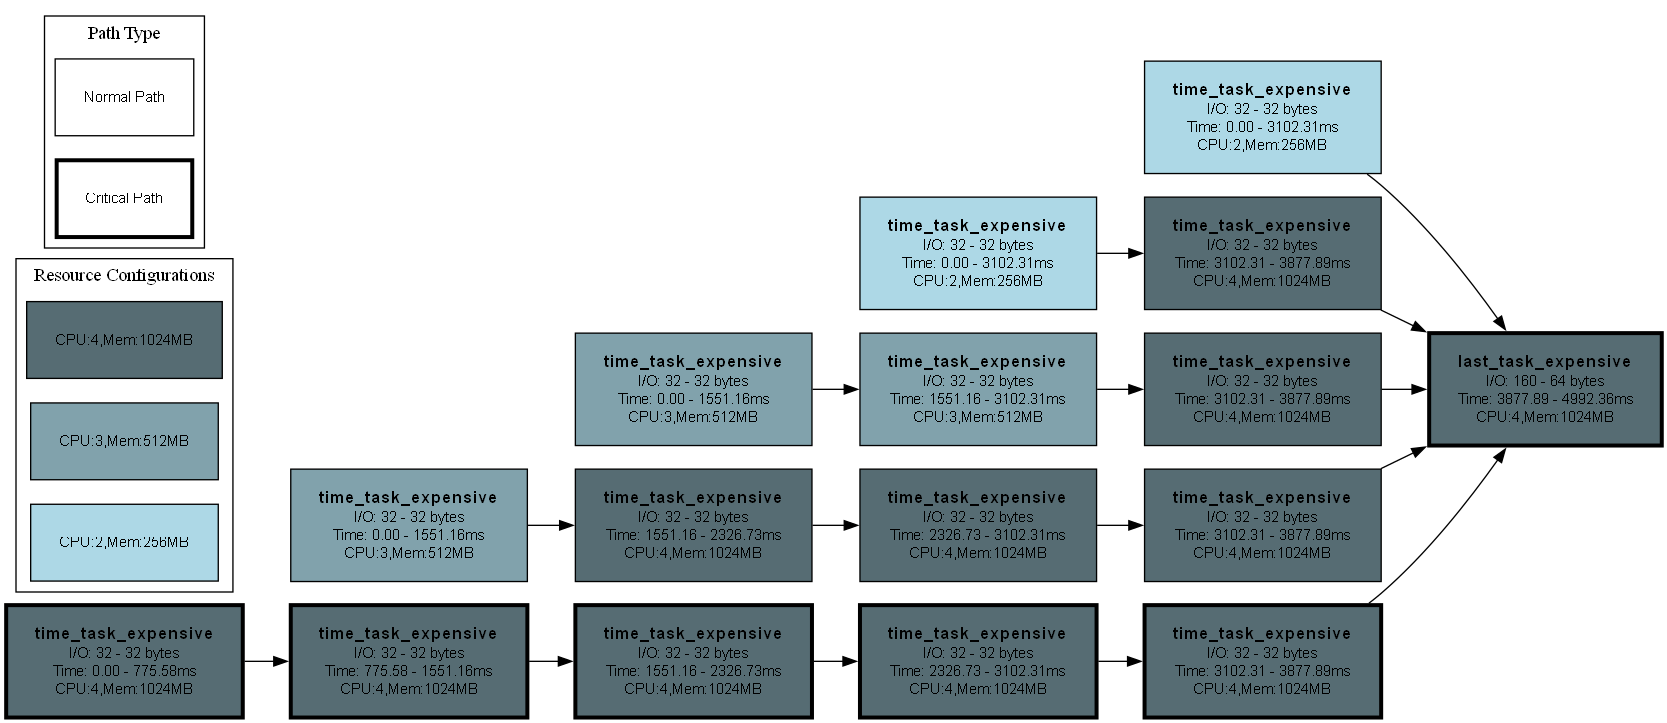
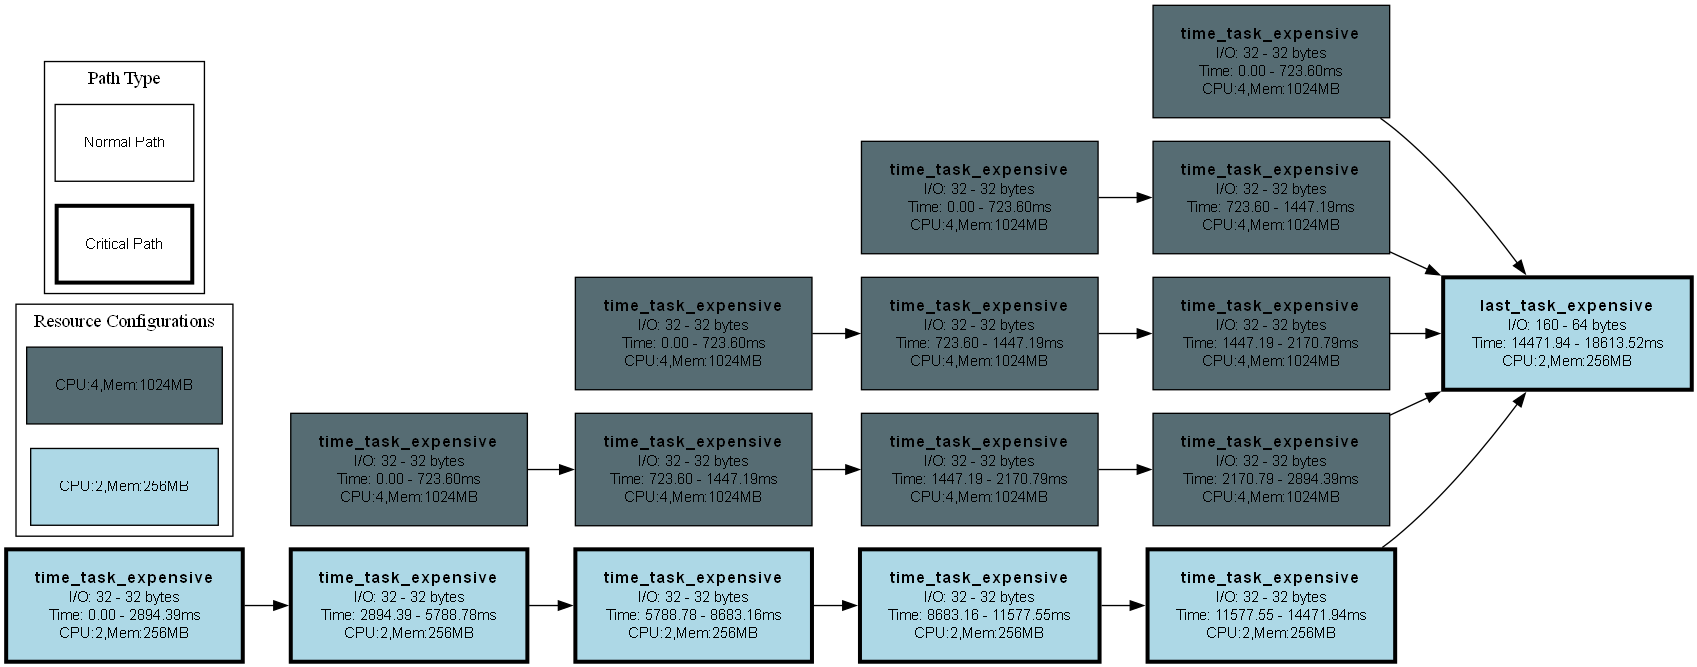
moved worker logic to worker execution logic class

diff --git a/src/worker.py b/src/worker.py
@@ -4,19 +4,19 @@ import base64
 from dataclasses import dataclass
 import json
 import time
-from typing import Any, Callable, Optional
+from typing import Callable, Optional
 import uuid
 import cloudpickle
 import aiohttp
 from abc import ABC, abstractmethod
 
-from src.planning.dag_planner import DAGPlanner, SimpleDAGPlanner
+from src.planning.dag_planner import DAGPlanner
 from src.utils.timer import Timer
 from src.utils.utils import calculate_data_structure_size
 from src.worker_execution_logic import WorkerExecutionLogic
 from src.worker_resource_configuration import TaskWorkerResourceConfiguration
 from src.storage.metrics import metrics_storage
-from src.storage.metrics.metrics_storage import BASELINE_MEMORY_MB, TaskHardcodedInputMetrics, TaskMetrics, TaskInputMetrics, TaskOutputMetrics, TaskInvocationMetrics
+from src.storage.metrics.metrics_storage import BASELINE_MEMORY_MB, TaskHardcodedInputMetrics, TaskMetrics, TaskOutputMetrics
 from src.utils.logger import create_logger
 import src.dag.dag as dag
 import src.dag_task_node as dag_task_node
@@ -45,25 +45,6 @@ class Worker(ABC, WorkerExecutionLogic):
         self.metrics_storage = config.metrics_storage_config.create_instance() if config.metrics_storage_config else None
         self.planner = config.planner_config.create_instance() if config.planner_config else None
 
-    @staticmethod
-    def get_method_overridden(
-        planner_class: type, 
-        base_method: Callable,
-    ) -> Optional[Callable]:
-        # Get the planner's method (without invoking descriptors)
-        planner_method = inspect.getattr_static(planner_class, base_method.__name__, None)
-        if planner_method is None:
-            return None
-        
-        # Unwrap staticmethod if needed
-        base_func = base_method.__func__ if isinstance(base_method, staticmethod) else base_method
-        planner_func = planner_method.__func__ if isinstance(planner_method, staticmethod) else planner_method
-        
-        # Return the callable method if it's actually overridden
-        if planner_func.__code__ != base_func.__code__:
-            return planner_method  # Returns the staticmethod wrapper if applicable
-        return None
-
     async def start_executing(self, subdag: dag.SubDAG):
         if not subdag.root_node: raise Exception(f"AbstractWorker expected a subdag with only 1 root node. Got {len(subdag.root_node)}")
         task = subdag.root_node
@@ -85,15 +66,15 @@ class Worker(ABC, WorkerExecutionLogic):
                     downstream_invocation_times = None,
                     total_invocation_time_ms=0
                 )
-                # 1) DOWNLOAD TASK DEPENDENCIES
+                #* 1) DOWNLOAD TASK DEPENDENCIES
                 self.log(task.id.get_full_id_in_dag(subdag), f"1) Grabbing {len(task.upstream_nodes)} upstream tasks: {[tt.id for tt in task.upstream_nodes]}")
                 planner_override_handle_inputs = self.get_method_overridden(self.planner.__class__, WorkerExecutionLogic.override_handle_inputs) if self.planner else None
                 if planner_override_handle_inputs:
                     logger.info("SIMPLEDAGPLANNER.HANDLE_INPUTS()")
-                    task_dependencies, task_metrics.input_metrics, task_metrics.total_input_download_time_ms = planner_override_handle_inputs(self.intermediate_storage, task, subdag, workerResourceConfig) # type: ignore
+                    task_dependencies, task_metrics.input_metrics, task_metrics.total_input_download_time_ms = await planner_override_handle_inputs(self.intermediate_storage, task, subdag, workerResourceConfig) # type: ignore
                 else:
                     logger.info("DEFAULTEXECLOGIC.HANDLE_INPUTS()")
-                    task_dependencies, task_metrics.input_metrics, task_metrics.total_input_download_time_ms = self.override_handle_inputs(self.intermediate_storage, task, subdag, workerResourceConfig)
+                    task_dependencies, task_metrics.input_metrics, task_metrics.total_input_download_time_ms = await self.override_handle_inputs(self.intermediate_storage, task, subdag, workerResourceConfig)
 
                 # Register the size of hardcoded arguments as well
                 for func_arg in task.func_args:
@@ -103,77 +84,76 @@ class Worker(ABC, WorkerExecutionLogic):
                 for func_kwarg in task.func_kwargs.values():
                     if isinstance(func_kwarg, dag_task_node.DAGTaskNodeId): continue
                     task_metrics.hardcoded_input_metrics.append(TaskHardcodedInputMetrics(size_bytes=calculate_data_structure_size(func_kwarg)))
+                
+                #* 2) EXECUTE TASK
+                self.log(task.id.get_full_id_in_dag(subdag), f"2) Executing Task...")
+                planner_override_handle_execution = self.get_method_overridden(self.planner.__class__, WorkerExecutionLogic.override_handle_execution) if self.planner else None
+                if planner_override_handle_execution:
+                    logger.info("SIMPLEDAGPLANNER.HANDLE_EXECUTION()")
+                    task_result, task_execution_time_ms = await planner_override_handle_execution(task, task_dependencies) # type: ignore
+                else:
+                    logger.info("DEFAULTEXECLOGIC.HANDLE_EXECUTION()")
+                    task_result, task_execution_time_ms = await self.override_handle_execution(task, task_dependencies)
 
-                # 2) EXECUTE TASK
-                exec_timer = Timer()
-                self.log(task.id.get_full_id_in_dag(subdag), f"2) Executing...")
-                task_result = task.invoke(dependencies=task_dependencies)
-                task_metrics.execution_time_ms = exec_timer.stop()
-                total_input_size = sum(m.size_bytes for m in task_metrics.input_metrics) + sum(m.size_bytes for m in task_metrics.hardcoded_input_metrics)
+                task_metrics.execution_time_ms = task_execution_time_ms
                 # normalize based on the memory used. Calculate "per input size byte"
+                total_input_size = sum(m.size_bytes for m in task_metrics.input_metrics) + sum(m.size_bytes for m in task_metrics.hardcoded_input_metrics)
                 task_metrics.normalized_execution_time_per_input_byte_ms = task_metrics.execution_time_ms \
                     * (task_metrics.worker_resource_configuration.memory_mb / BASELINE_MEMORY_MB)  \
                     / total_input_size if task_metrics.worker_resource_configuration else 0 # 0, not to influence predictions, using task_metrics.execution_time_ms would be incorrect
-                self.log(task.id.get_full_id_in_dag(subdag), f"3) Done! Writing output to storage...")
-                output_upload_timer = Timer()
-                task_result_serialized = cloudpickle.dumps(task_result)
-                self.intermediate_storage.set(task.id.get_full_id_in_dag(subdag), task_result_serialized)
+                
+                #* 3) HANDLE TASK OUTPUT
+                self.log(task.id.get_full_id_in_dag(subdag), f"3) Handling Task Output...")
+                planner_override_handle_output = self.get_method_overridden(self.planner.__class__, WorkerExecutionLogic.override_handle_output) if self.planner else None
+                if planner_override_handle_output:
+                    logger.info("SIMPLEDAGPLANNER.HANDLE_OUTPUT()")
+                    output_upload_time_ms = await planner_override_handle_output(task_result, task, subdag, self.intermediate_storage) # type: ignore
+                else:
+                    logger.info("DEFAULTEXECLOGIC.HANDLE_OUTPUT()")
+                    output_upload_time_ms = await self.override_handle_output(task_result, task, subdag, self.intermediate_storage)
+
                 task_metrics.output_metrics = TaskOutputMetrics(
                     size_bytes=calculate_data_structure_size(task_result),
-                    time_ms=output_upload_timer.stop(),
-                    normalized_time_ms=output_upload_timer.stop() * (task_metrics.worker_resource_configuration.memory_mb / BASELINE_MEMORY_MB) if task_metrics.worker_resource_configuration else 0
+                    time_ms=output_upload_time_ms,
+                    normalized_time_ms=output_upload_time_ms * (task_metrics.worker_resource_configuration.memory_mb / BASELINE_MEMORY_MB) if task_metrics.worker_resource_configuration else 0
                 )
 
-                if len(task.downstream_nodes) == 0: 
-                    self.log(task.id.get_full_id_in_dag(subdag), f"Last Task finished. Shutting down worker...")
+                if task.id.get_full_id() == subdag.sink_node.id.get_full_id():
+                    self.log(task.id.get_full_id_in_dag(subdag), f"Sink task finished. Shutting down worker...")
                     if self.metrics_storage: self.metrics_storage.store_task_metrics(task.id.get_full_id_in_dag(subdag), task_metrics)
                     break
 
-                # 3. HANDLE FAN-OUT (1-1 or 1-N)
-                self.log(task.id.get_full_id_in_dag(subdag), f"4) Handle Fan-Out {task.id.get_full_id_in_dag(subdag)} => {[t.id.get_full_id_in_dag(subdag) for t in task.downstream_nodes]}")
-                ready_downstream: list[dag_task_node.DAGTaskNode] = []
-                
+                # Update Dependency Counters of Downstream Tasks
                 updating_dependency_counters_timer = Timer()
-
+                downstream_tasks_ready: list[dag_task_node.DAGTaskNode] = []
                 for downstream_task in task.downstream_nodes:
                     dc_key = f"dependency-counter-{downstream_task.id.get_full_id_in_dag(subdag)}"
                     dependencies_met = self.metadata_storage.atomic_increment_and_get(dc_key)
                     downstream_task_total_dependencies = len(subdag.get_node_by_id(downstream_task.id).upstream_nodes)
                     self.log(task.id.get_full_id_in_dag(subdag), f"Incremented DC of {dc_key} ({dependencies_met}/{downstream_task_total_dependencies})")
-                    if dependencies_met == downstream_task_total_dependencies: ready_downstream.append(downstream_task)
-
+                    if dependencies_met == downstream_task_total_dependencies: downstream_tasks_ready.append(downstream_task)
                 task_metrics.update_dependency_counters_time_ms = updating_dependency_counters_timer.stop()
 
-                # Delegate Downstream Tasks Execution
-                if len(ready_downstream) == 0:
+                self.log(task.id.get_full_id_in_dag(subdag), f"4) Handle Fan-Out {task.id.get_full_id_in_dag(subdag)} => {[t.id.get_full_id_in_dag(subdag) for t in task.downstream_nodes]}")
+
+                if len(downstream_tasks_ready) == 0:
                     self.log(task.id.get_full_id_in_dag(subdag), f"No ready downstream tasks found. Shutting down worker...")
                     if self.metrics_storage: self.metrics_storage.store_task_metrics(task.id.get_full_id_in_dag(subdag), task_metrics)
-                    break  # Give up
+                    break # Give up
 
                 ## > 1 Task ?: Continue with 1 and spawn N-1 Workers for remaining tasks
-                continuation_task = ready_downstream[0] # choose the first task
-                tasks_to_delegate = ready_downstream[1:]
-                coroutines = []
-                total_invocation_time_timer = Timer()
-
-                task_metrics.downstream_invocation_times = []
-                for t in tasks_to_delegate:
-                    workerResourcesConfig = t.get_annotation(TaskWorkerResourceConfiguration)
-                    casted_planner: SimpleDAGPlanner = self.planner # type: ignore
-                    if workerResourcesConfig is None and len(casted_planner.config.available_worker_resource_configurations) > 0:
-                        workerResourcesConfig = casted_planner.config.available_worker_resource_configurations[0]
-                        
-                    self.log(task.id.get_full_id_in_dag(subdag), f"Delegating downstream task: {t} with resources: {workerResourcesConfig}")
-                    delegate_invoke_timer = Timer()
-                    coroutines.append(self.delegate(
-                        subdag.create_subdag(t),
-                        resource_configuration=workerResourcesConfig,
-                        called_by_worker=True
-                    ))
-                    task_metrics.downstream_invocation_times.append(TaskInvocationMetrics(task_id=t.id.get_full_id_in_dag(subdag), time_ms=delegate_invoke_timer.stop()))
+                #* 4) HANDLE DOWNSTREAM TASKS
+                self.log(task.id.get_full_id_in_dag(subdag), f"3) Handling Task Output...")
+                planner_override_handle_downstream = self.get_method_overridden(self.planner.__class__, WorkerExecutionLogic.override_handle_downstream) if self.planner else None
+                if planner_override_handle_downstream:
+                    logger.info("SIMPLEDAGPLANNER.HANDLE_DOWNSTREAM()")
+                    continuation_task, downstream_invocation_times, total_invocation_time_ms = await planner_override_handle_downstream(self, downstream_tasks_ready, task, subdag) # type: ignore
+                else:
+                    logger.info("DEFAULTEXECLOGIC.HANDLE_DOWNSTREAM()")
+                    continuation_task, downstream_invocation_times, total_invocation_time_ms = await self.override_handle_downstream(self, downstream_tasks_ready, task, subdag)
                 
-                await asyncio.gather(*coroutines) # wait for the delegations to be accepted
-                task_metrics.total_invocation_time_ms = total_invocation_time_timer.stop()
+                task_metrics.downstream_invocation_times = downstream_invocation_times
+                task_metrics.total_invocation_time_ms = total_invocation_time_ms
 
                 if self.metrics_storage: self.metrics_storage.store_task_metrics(task.id.get_full_id_in_dag(subdag), task_metrics)
 
@@ -223,24 +203,21 @@ class Worker(ABC, WorkerExecutionLogic):
                 return final_result
 
     @staticmethod
-    def override_handle_inputs(intermediate_storage: storage_module.Storage, task: dag_task_node.DAGTaskNode, subdag: dag.SubDAG, worker_resource_config: TaskWorkerResourceConfiguration | None):
-        task_dependencies: dict[str, Any] = {}
-        _input_metrics: list[TaskInputMetrics] = []
-        dependency_download_timer = Timer()
-        for dependency_task in task.upstream_nodes:
-            fotimer = Timer()
-            task_output = intermediate_storage.get(dependency_task.id.get_full_id_in_dag(subdag))
-            if task_output is None: raise Exception(f"[BUG] Task {dependency_task.id.get_full_id_in_dag(subdag)}'s data is not available")
-            task_dependencies[dependency_task.id.get_full_id()] = cloudpickle.loads(task_output)
-            _input_metrics.append(TaskInputMetrics(
-                task_id=dependency_task.id.get_full_id_in_dag(subdag),
-                size_bytes=calculate_data_structure_size(task_dependencies[dependency_task.id.get_full_id()]),
-                time_ms=fotimer.stop(),
-                normalized_time_ms=fotimer.stop() * (worker_resource_config.memory_mb / BASELINE_MEMORY_MB) if worker_resource_config else 0
-            ))
+    def get_method_overridden(
+        planner_class: type, 
+        base_method: Callable,
+    ) -> Optional[Callable]:
+        # Get the planner's method (without invoking descriptors)
+        planner_method = inspect.getattr_static(planner_class, base_method.__name__, None)
+        if planner_method is None: return None
+
+        # Unwrap staticmethod if needed
+        base_func = base_method.__func__ if isinstance(base_method, staticmethod) else base_method
+        planner_func = planner_method.__func__ if isinstance(planner_method, staticmethod) else planner_method
         
-        _total_input_download_time_ms = dependency_download_timer.stop()
-        return (task_dependencies, _input_metrics, _total_input_download_time_ms)
+        # Return the callable method if it's actually overridden
+        if planner_func.__code__ != base_func.__code__: return planner_method
+        return None
 
     def log(self, task_id: str, message: str):
         """Log a message with worker ID prefix."""

diff --git a/src/worker_execution_logic.py b/src/worker_execution_logic.py
@@ -1,25 +1,74 @@
-from abc import ABC, abstractmethod
+import asyncio
 from typing import Any
+
+import cloudpickle
 
 from src.dag import dag
 from src.dag_task_node import DAGTaskNode
-from src.storage.metrics.metrics_storage import TaskInputMetrics
+from src.storage.metrics.metrics_storage import BASELINE_MEMORY_MB, TaskInputMetrics, TaskInvocationMetrics
 from src.storage.storage import Storage
+from src.utils.timer import Timer
+from src.utils.utils import calculate_data_structure_size
+from src.worker import Worker
 from src.worker_resource_configuration import TaskWorkerResourceConfiguration
 
 class WorkerExecutionLogic():
     @staticmethod
-    def override_handle_inputs(intermediate_storage: Storage, task: DAGTaskNode, subdag: dag.SubDAG, worker_resource_config: TaskWorkerResourceConfiguration | None) -> tuple[dict[str, Any], list[TaskInputMetrics], float]:
-        raise NotImplementedError
+    async def override_handle_inputs(intermediate_storage: Storage, task: DAGTaskNode, subdag: dag.SubDAG, worker_resource_config: TaskWorkerResourceConfiguration | None) -> tuple[dict[str, Any], list[TaskInputMetrics], float]:
+        task_dependencies: dict[str, Any] = {}
+        _input_metrics: list[TaskInputMetrics] = []
+        dependency_download_timer = Timer()
+        for dependency_task in task.upstream_nodes:
+            fotimer = Timer()
+            task_output = intermediate_storage.get(dependency_task.id.get_full_id_in_dag(subdag))
+            if task_output is None: raise Exception(f"[BUG] Task {dependency_task.id.get_full_id_in_dag(subdag)}'s data is not available")
+            task_dependencies[dependency_task.id.get_full_id()] = cloudpickle.loads(task_output)
+            _input_metrics.append(TaskInputMetrics(
+                task_id=dependency_task.id.get_full_id_in_dag(subdag),
+                size_bytes=calculate_data_structure_size(task_dependencies[dependency_task.id.get_full_id()]),
+                time_ms=fotimer.stop(),
+                normalized_time_ms=fotimer.stop() * (worker_resource_config.memory_mb / BASELINE_MEMORY_MB) if worker_resource_config else 0
+            ))
+        
+        _total_input_download_time_ms = dependency_download_timer.stop()
+        return (task_dependencies, _input_metrics, _total_input_download_time_ms)
     
     @staticmethod
-    def override_handle_execution(): 
-        raise NotImplementedError
+    async def override_handle_execution(task: DAGTaskNode, task_dependencies: dict[str, Any]) -> tuple[Any, float]:
+        exec_timer = Timer()
+        task_result = task.invoke(dependencies=task_dependencies)
+        return (task_result, exec_timer.stop())
 
     @staticmethod
-    def override_handle_output(): 
-        raise NotImplementedError
+    async def override_handle_output(task_result: Any, task: DAGTaskNode, subdag: dag.SubDAG, intermediate_storage: Storage) -> float: 
+        output_upload_timer = Timer()
+        task_result_serialized = cloudpickle.dumps(task_result)
+        intermediate_storage.set(task.id.get_full_id_in_dag(subdag), task_result_serialized)
+        return output_upload_timer.stop()
 
     @staticmethod
-    def override_handle_downstream(): 
-        raise NotImplementedError
+    async def override_handle_downstream(worker: Worker, downstream_tasks_ready: list[DAGTaskNode], task: DAGTaskNode, subdag: dag.SubDAG) -> tuple[DAGTaskNode, list[TaskInvocationMetrics], float]:
+        continuation_task = downstream_tasks_ready[0] # choose the first task
+        tasks_to_delegate = downstream_tasks_ready[1:]
+        coroutines = []
+        total_invocation_time_timer = Timer()
+        downstream_invocation_times = []
+        for t in tasks_to_delegate:
+            workerResourcesConfig = t.get_annotation(TaskWorkerResourceConfiguration)
+            casted_planner: SimpleDAGPlanner = self.planner # type: ignore
+            if workerResourcesConfig is None and len(casted_planner.config.available_worker_resource_configurations) > 0:
+                workerResourcesConfig = casted_planner.config.available_worker_resource_configurations[0]
+                
+            worker.log(task.id.get_full_id_in_dag(subdag), f"Delegating downstream task: {t} with resources: {workerResourcesConfig}")
+            delegate_invoke_timer = Timer()
+            coroutines.append(worker.delegate(
+                subdag.create_subdag(t),
+                resource_configuration=workerResourcesConfig,
+                called_by_worker=True
+            ))
+            downstream_invocation_times.append(TaskInvocationMetrics(task_id=t.id.get_full_id_in_dag(subdag), time_ms=delegate_invoke_timer.stop()))
+        
+        await asyncio.gather(*coroutines) # wait for the delegations to be accepted
+
+        total_invocation_time_ms = total_invocation_time_timer.stop()
+        return (continuation_task, downstream_invocation_times, total_invocation_time_ms)

diff --git a/_examples/original/dagforpredictions_expensive_computations.py b/_examples/original/dagforpredictions_expensive_computations.py
@@ -28,14 +28,14 @@ localWorkerConfig = LocalWorker.Config(
     intermediate_storage_config=redis_intermediate_storage_config,
     metadata_storage_config=redis_intermediate_storage_config,  # will use the same as intermediate_storage_config
     metrics_storage_config=MetricsStorage.Config(storage_config=redis_metrics_storage_config),
-    # planner_config=SimpleDAGPlanner.Config(
-    #     sla="avg",
-    #     available_worker_resource_configurations=[
-    #         TaskWorkerResourceConfiguration(cpus=2, memory_mb=256),
-    #         TaskWorkerResourceConfiguration(cpus=3, memory_mb=512),
-    #         TaskWorkerResourceConfiguration(cpus=4, memory_mb=1024)
-    #     ],
-    # )
+    planner_config=SimpleDAGPlanner.Config(
+        sla="avg",
+        available_worker_resource_configurations=[
+            TaskWorkerResourceConfiguration(cpus=2, memory_mb=256),
+            TaskWorkerResourceConfiguration(cpus=3, memory_mb=512),
+            TaskWorkerResourceConfiguration(cpus=4, memory_mb=1024)
+        ],
+    )
 )
 
 dockerWorkerConfig = DockerWorker.Config(

diff --git a/TODO.md b/TODO.md
@@ -1,8 +1,8 @@
-
-
 # WORKER
-- Add support for Planners in LocalWorker as well (all workers should be supported)
-- Implement remaining override methods on the Worker
+- Test local implementation with PLANNING to try and fix circular dependency errors
+- When using Local Worker, don't upload metrics
+- Don't depend on worker resource config on the generic WorkerExecutionLogic code
+- Run automatic tests again
 
 - Implement pre-load optimization
     - Implement report 1st algorithm as a NEW algorithm (keep the first one that just does 1 pass and uses no optimizations)
